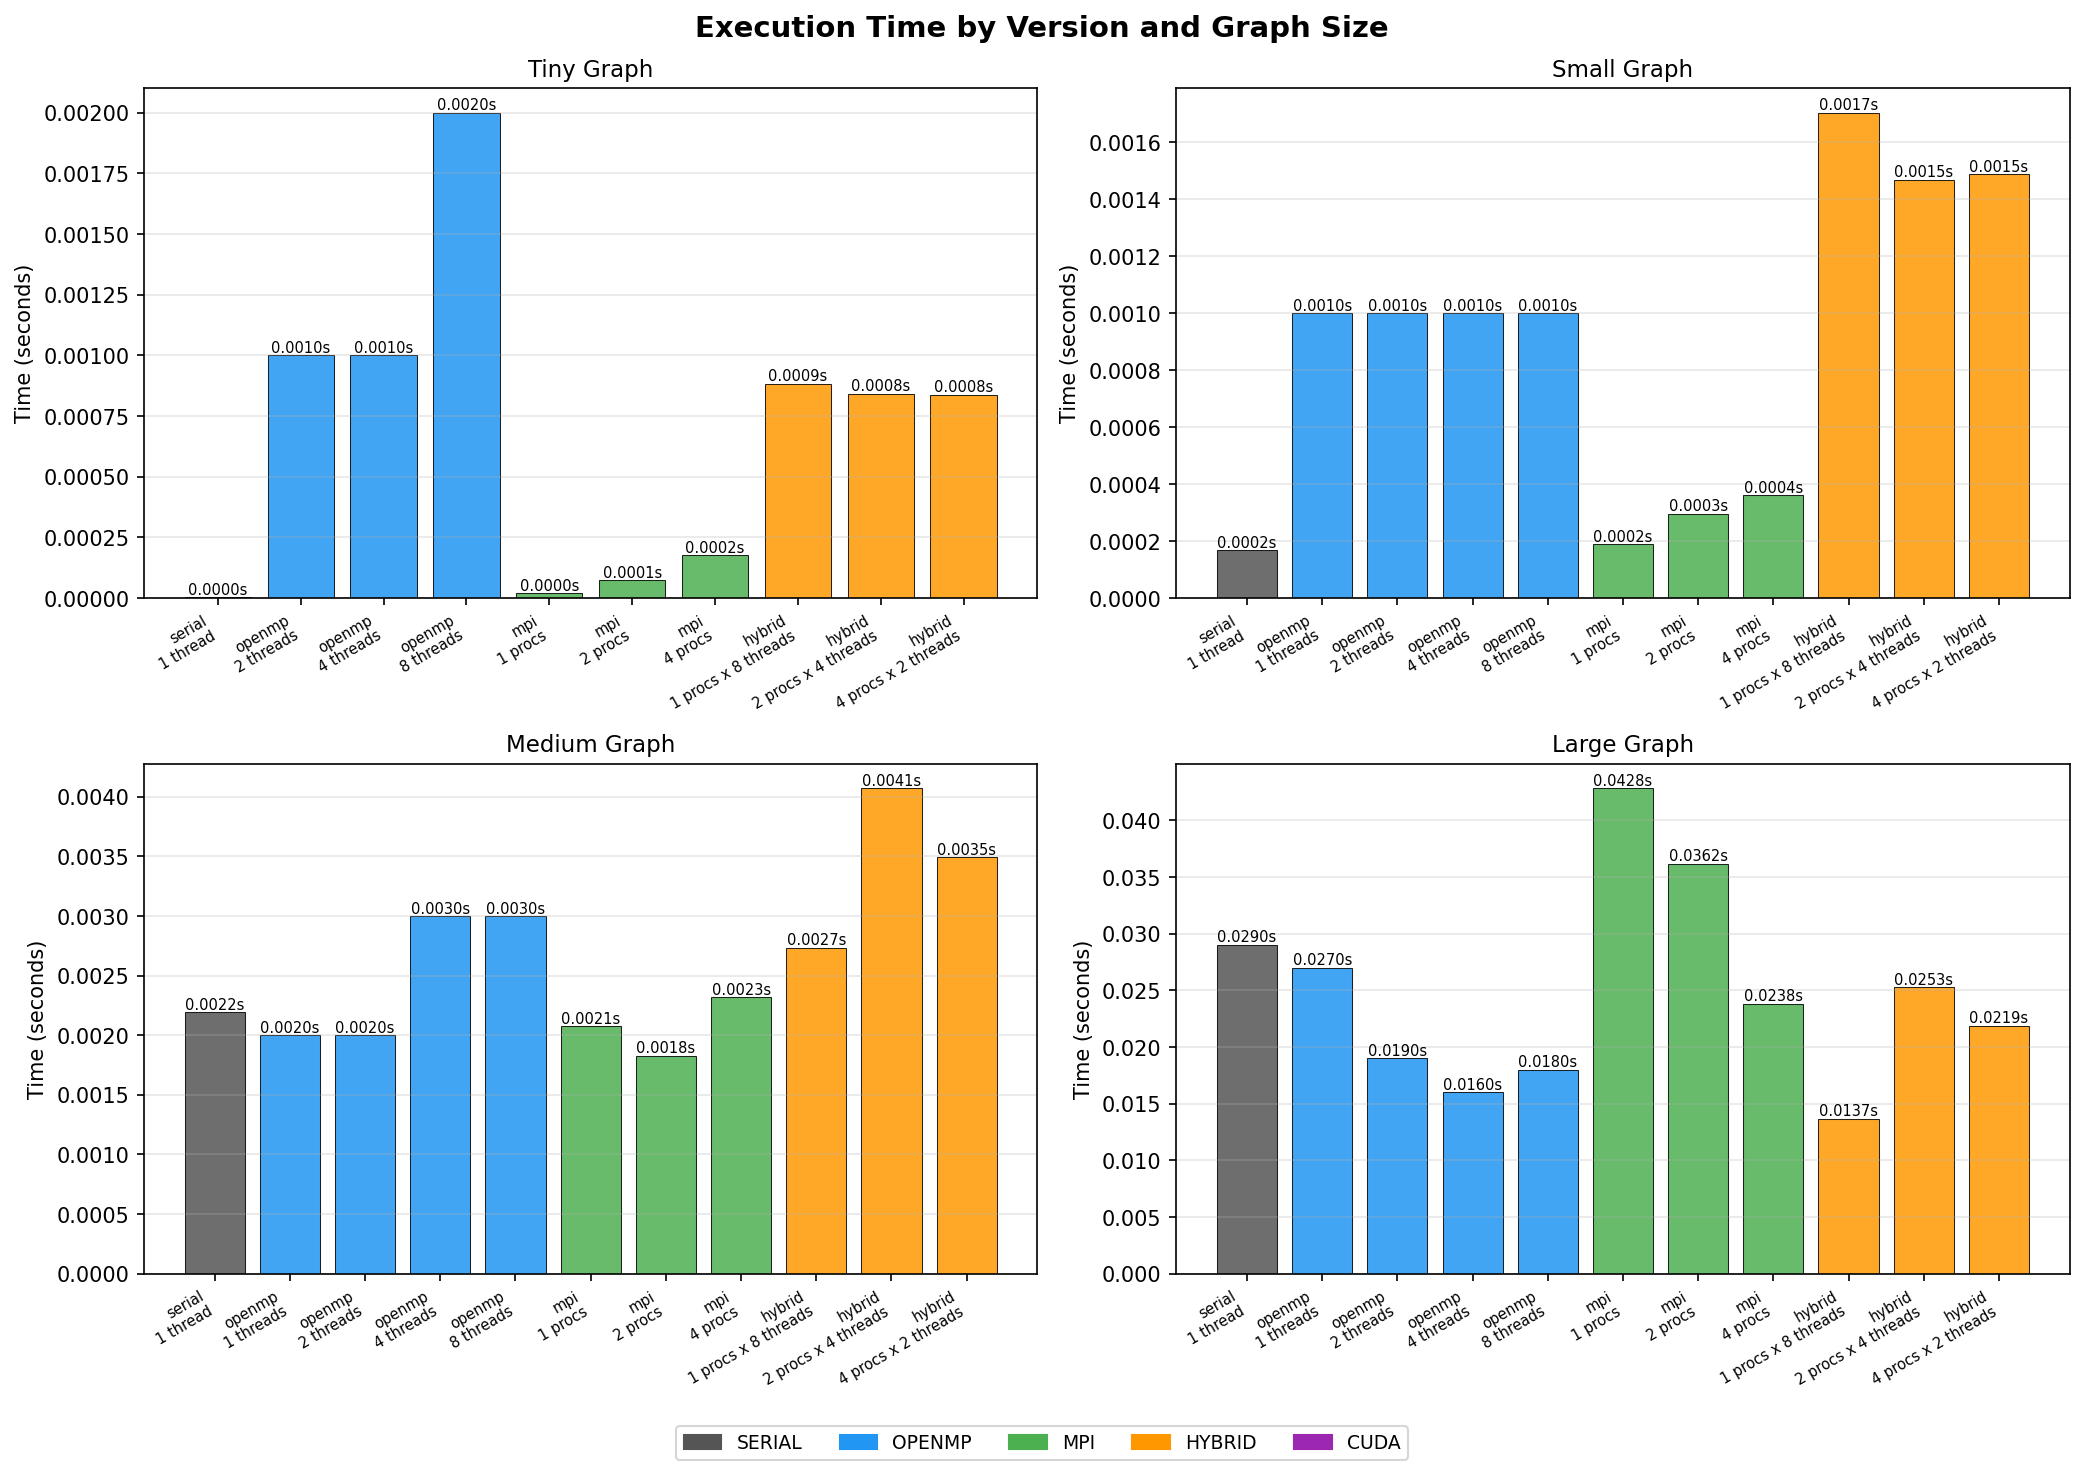
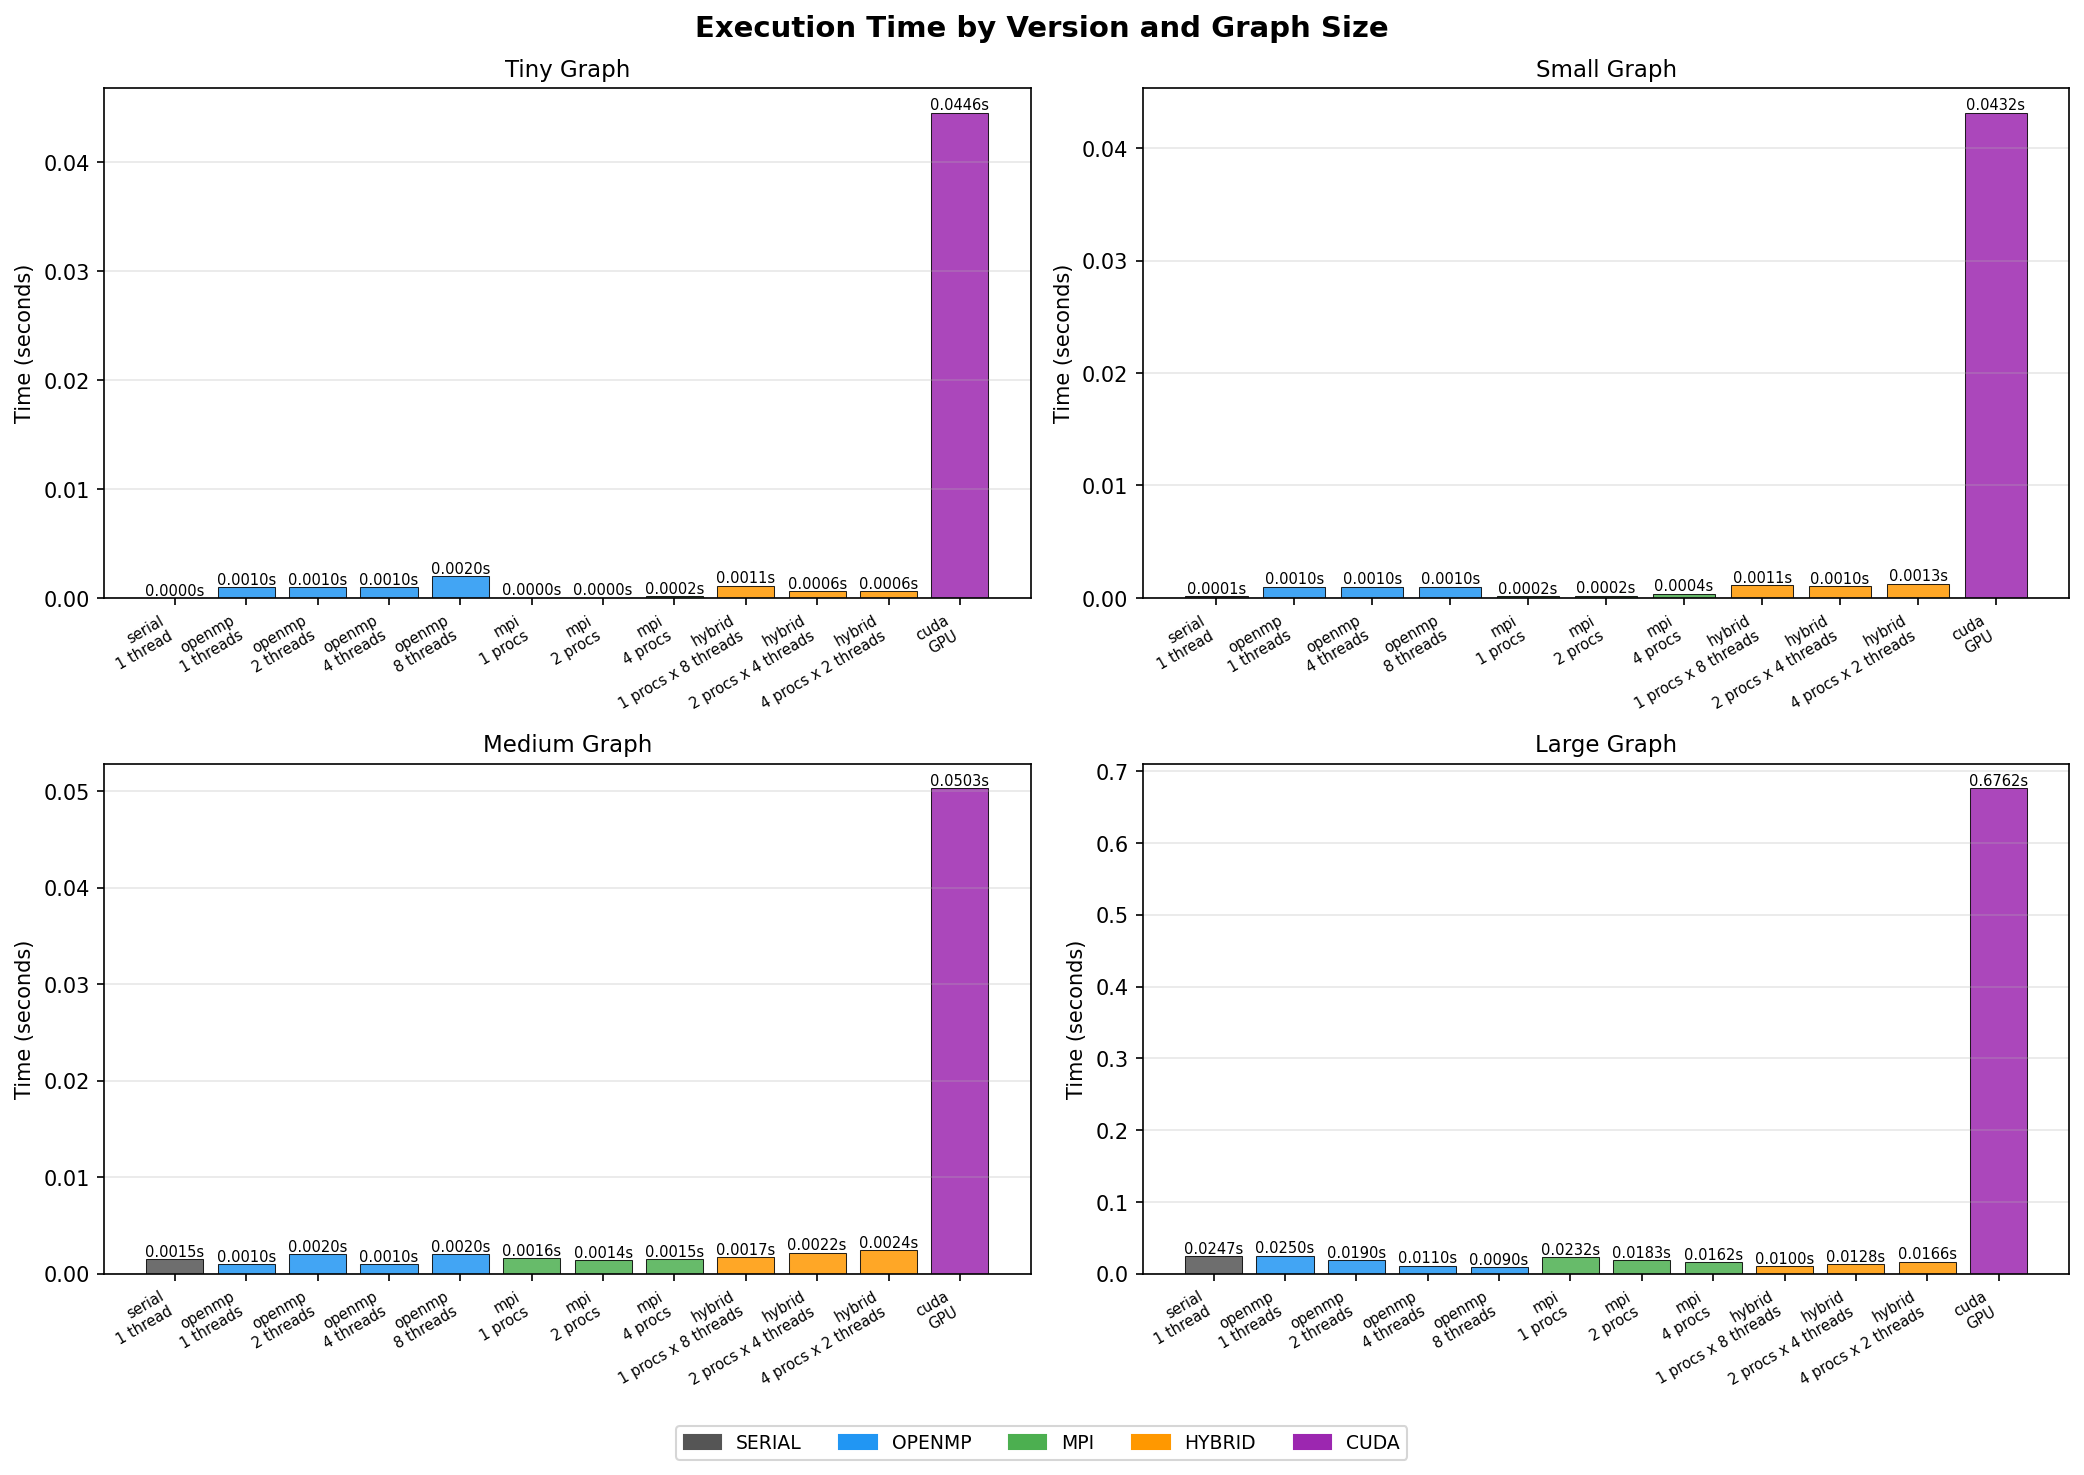
Complete CUDA implementation: compiled, tested and benchmarked

diff --git a/scripts/run_benchmarks.py b/scripts/run_benchmarks.py
@@ -122,6 +122,12 @@ def run_hybrid(graph_file, source, procs, threads):
     return run_cmd(cmd, env=env)
 
 
+def run_cuda(graph_file, source):
+    """Run CUDA version."""
+    cmd = [r".\bin\bellman_ford_cuda.exe", graph_file, str(source)]
+    return run_cmd(cmd)
+
+
 def best_of(func, *args, reps=REPS):
     """
     Run func(*args) 'reps' times, return the best (minimum) elapsed time.
@@ -237,6 +243,22 @@ def main():
                 "time_sec": f"{t:.6f}" if t else "N/A",
                 "speedup": f"{sp:.2f}" if sp else "N/A"
             })
+
+        # ----------------------------------------------------------
+        # Step 5: CUDA
+        # ----------------------------------------------------------
+        print(f"\n[CUDA]")
+        t = best_of(run_cuda, graph_file, SOURCE, reps=REPS)
+        sp = speedup(serial_time, t)
+        status = f"{t:.6f}s  speedup={sp:.2f}x" if t else "FAILED / not built"
+        print(f"  GPU: {status}")
+        rows.append({
+            "graph": graph_name,
+            "version": "cuda",
+            "config": "GPU",
+            "time_sec": f"{t:.6f}" if t else "N/A",
+            "speedup": f"{sp:.2f}" if sp else "N/A"
+        })
 
     # ----------------------------------------------------------
     # Save results to CSV
